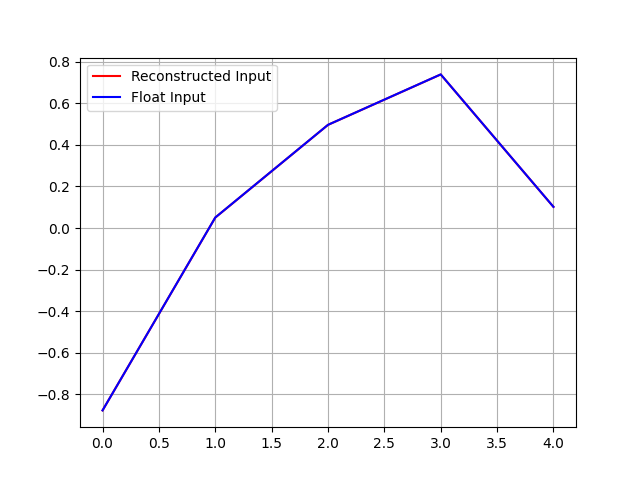
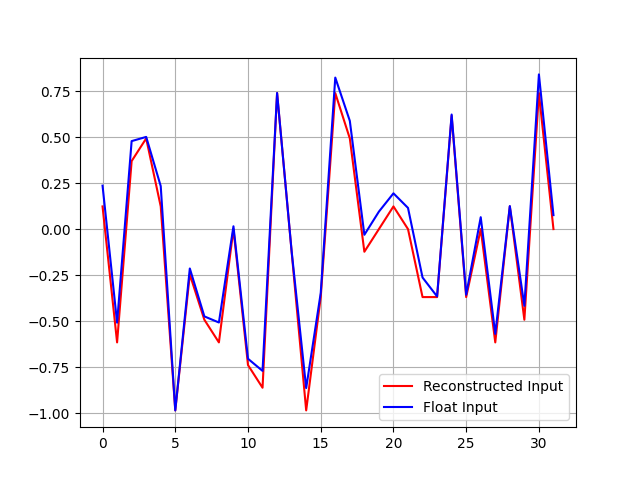
modified:   python/VMM_sim.py 	modified:   python/multi_xb_VMM.py 	modified:   results/Input_reconstruction.png 	new file:   results/Quantized_output_comparison.png 	modified:   results/VMM_with_multi_XB.png

diff --git a/python/multi_xb_VMM.py b/python/multi_xb_VMM.py
@@ -5,7 +5,7 @@ from VMM_sim import Quantize_VMM, Deduct_VM
 import matplotlib.pyplot as plt
 
 
-def Quantize_input(input_vectors, v_range, num_intervals=16):
+def Quantize_input(input_vectors, v_range, interval_width, num_intervals=16):
     '''
     Parameters:
         voltages: input voltage vectors (Nxl), where N is the number of vectors and l is the length of each vector
@@ -14,20 +14,18 @@ def Quantize_input(input_vectors, v_range, num_intervals=16):
     Returns:
         quantized_lvs: quantized input voltage vectors (Nxl, [v_range[0], v_range[1]]), where N is the number of vectors and l is the length of each vector
         scaled_indices: the indices of the quantized input voltage vectors (Nxl)
-        interval_widths: the width of each interval in the quantization
     '''
     # Determine codes and prepare for broadcasting
-    codes = np.linspace(v_range[0], v_range[1], num_intervals, endpoint=False, dtype=int)
+    codes = np.linspace(v_range[0], v_range[1], num_intervals, endpoint=True, dtype=int)
     
-    # Compute min and max for each vector
-    min_vals = np.min(input_vectors)
-    max_vals = np.max(input_vectors)
-    
-    # Calculate interval widths for each vector
-    interval_widths = (max_vals - min_vals) / num_intervals
+    # Compute float voltage range
+    float_v_range = interval_width * num_intervals
+    # Compute a and b
+    a = (v_range[1] - v_range[0]) / float_v_range
+    b = v_range[0]
     
     # Normalize vectors to range [0, 1] within their respective min-max range
-    normalized_vectors = (input_vectors - min_vals) / (max_vals - min_vals)
+    normalized_vectors = input_vectors / float_v_range
     
     # Scale normalized vectors to code indices and clip to valid range
     scaled_indices = np.floor(normalized_vectors * num_intervals).astype(int)
@@ -36,7 +34,7 @@ def Quantize_input(input_vectors, v_range, num_intervals=16):
     # Map indices to quantized voltage values
     quantized_lvs = codes[scaled_indices]
     
-    return quantized_lvs, scaled_indices, interval_widths
+    return quantized_lvs, scaled_indices, a, b
 
 
 '''
@@ -91,7 +89,7 @@ def VMM_with_multi_XB(voltages, conductances, v_range, g_range, num_xbars, num_s
     codes_g = np.arange(g_range[0], g_range[1] + 1, dtype=int)
     qtz_conductances = codes_g[
         np.clip(
-            np.floor((conductances - min_g) / (max_g - min_g) * len(codes_g)).astype(int), 
+            np.floor((conductances - min_g) / (max_g - min_g) * (len(codes_g) - 1)).astype(int), 
             0, len(codes_g) - 1)]
     
     # Compute c, d
@@ -107,19 +105,22 @@ def VMM_with_multi_XB(voltages, conductances, v_range, g_range, num_xbars, num_s
     qtz_output_deduct = np.zeros((num_xbars + 1, voltages.shape[0], conductances.shape[1]))
     max_out = np.zeros((num_xbars + 1, 1))
     min_out = np.zeros((num_xbars + 1, 1))
-    a, b = np.zeros((num_xbars, 1)), np.zeros((num_xbars, 1))
+    a, b = np.zeros((num_xbars + 1, 1)), np.zeros((num_xbars + 1, 1))
+    rescale_factor, rescale_bias = np.zeros((num_xbars + 1, 1)), np.zeros((num_xbars + 1, 1))
+    float_output = np.zeros((num_xbars + 1, voltages.shape[0], conductances.shape[1]))
     
     voltages = voltages - total_min_v
-    for i in range(num_xbars):
-        # Compute a, b
-        max_v = np.max(voltages)
-        min_v = np.min(voltages)
-        a[i, :] = (v_range[1] - v_range[0]) / (max_v - min_v)
-        b[i, :] = v_range[0] - a[i, :] * min_v
+    for i in range(num_xbars): 
+        assert (np.min(voltages) >= 0), "The input voltage should be non-negative"
+        # Compute the interval width for the current crossbar
+        input_interval_widths[i, :] = (np.max(voltages) - np.min(voltages)) / num_steps if i == 0 else input_interval_widths[i - 1, :] / num_steps
         
         (qtz_input[i, :, :], 
          qtz_input_index[i, :, :], 
-         input_interval_widths[i, :]) = Quantize_input(voltages, v_range, num_steps)
+         a[i, :], b[i, :]) = Quantize_input(voltages, v_range, input_interval_widths[i, :], num_steps)
+        
+        # Compute the float output for the current crossbar
+        float_output[i, :, :] = np.matmul(qtz_input_index[i, :, :] * input_interval_widths[i, :], conductances)
         
         # Compute the output vector and quantize it to the range [0, 255]
         out = np.matmul(qtz_input[i, :, :], qtz_conductances)
@@ -130,11 +131,12 @@ def VMM_with_multi_XB(voltages, conductances, v_range, g_range, num_xbars, num_s
             np.clip(
                 np.floor((out - min_out[i, :]) / (max_out[i, :] - min_out[i, :]) * 255).astype(int), 
                 0, 255)]
-        qtz_output_deduct[i, :, :] = Deduct_VM(qtz_output[i, :, :], 
-                                               a[i, :], b[i, :], c, d, 
-                                               max_out[i, :], min_out[i, :], 
-                                               qtz_input_index[i, :, :] * input_interval_widths[i, :] + min_v, 
-                                               conductances)
+        (qtz_output_deduct[i, :, :], 
+         rescale_factor[i, :], rescale_bias[i, :]) = Deduct_VM(qtz_output[i, :, :], 
+                                                               a[i, :], b[i, :], c, d, 
+                                                               max_out[i, :], min_out[i, :], 
+                                                               qtz_input_index[i, :, :] * input_interval_widths[i, :], 
+                                                               conductances)
         
         # Update the voltages for the next crossbar
         voltages = voltages - input_interval_widths[i, :] * qtz_input_index[i, :, :]
@@ -144,6 +146,7 @@ def VMM_with_multi_XB(voltages, conductances, v_range, g_range, num_xbars, num_s
     total_min_v_qtz_vec = np.ones((1, voltages.shape[1])) * v_range[0]
     total_min_v_vec = np.ones((1, voltages.shape[1])) * total_min_v
     out = np.matmul(total_min_v_qtz_vec, qtz_conductances)
+    float_output[i, :, :] = np.matmul(total_min_v_vec, conductances)
     min_out[i, :], max_out[i, :] = np.min(out), np.max(out)
     
     codes_out = np.arange(0, 256, dtype=int)
@@ -151,15 +154,17 @@ def VMM_with_multi_XB(voltages, conductances, v_range, g_range, num_xbars, num_s
         np.clip(
             np.floor((out - min_out[i, :]) / (max_out[i, :] - min_out[i, :]) * 255).astype(int), 
             0, 255)]
-    qtz_output_deduct[i, :, :] = Deduct_VM(qtz_output[i, :, :], 
-                                           a[0, :], b[0, :], c, d, 
-                                           max_out[i, :], min_out[i, :], 
-                                           total_min_v_vec, 
-                                           conductances)
+    a[i, :], b[i, :] = 1, v_range[0] - total_min_v
+    (qtz_output_deduct[i, :, :],
+     rescale_factor[i, :], rescale_bias[i, :]) = Deduct_VM(qtz_output[i, :, :], 
+                                                           a[i, :], b[i, :], c, d, 
+                                                           max_out[i, :], min_out[i, :], 
+                                                           total_min_v_qtz_vec, 
+                                                           conductances)
     
     return qtz_input, qtz_input_index, input_interval_widths, \
-           qtz_conductances, total_min_v,\
-           qtz_output, qtz_output_deduct
+           qtz_conductances, total_min_v, a, c, rescale_factor, rescale_bias, \
+           qtz_output, qtz_output_deduct, float_output
 
 '''
 This function is to reconstruct the input voltage vectors and the output results from the quantized input and output
@@ -167,13 +172,14 @@ recover_input = total_min_v + sum(qtz_input_index[i, :, :] * input_interval_widt
 recover_output = sum(qtz_output[i, :, :] * input_interval_widths[i, :]) + total_min_v_output
     total_min_v_output is the last array in the qtz_output array
 '''
-def Reconstruct_output(qtz_input, qtz_input_index, input_interval_widths, total_min_v, qtz_output):
+def Reconstruct_output(qtz_input, qtz_input_index, input_interval_widths, 
+                       total_min_v, qtz_output, a, c, rescale_factor, rescale_bias):
     '''
     Parameters:
         qtz_input: quantized input voltage vectors (num_xbars x N x l, [v_range[0], v_range[1]]), where N is the number of vectors and l is the length of each vector
         qtz_input_index: the indices of the quantized input voltage vectors (Nxl)
         input_interval_widths: the width of each interval in the quantization (num_xbars x 1)
-        qtz_output: quantized output vector (Nxm), where N is the number of vectors and m is the output vector length
+        qtz_output: quantized output vector (Nxm), where N is the number of vectors and m is the output vector length`
     Returns:
         recover_input: the reconstructed input voltage vectors (Nxl)
         recover_output: the reconstructed output vector (Nxm)
@@ -183,30 +189,78 @@ def Reconstruct_output(qtz_input, qtz_input_index, input_interval_widths, total_
     
     recover_output = np.zeros(qtz_output.shape[1:])
     for i in range(num_xbars):
-        recover_output += qtz_output[i, :, :] * input_interval_widths[i]
-    recover_output += qtz_output[-1, :, :]
+        recover_output += (qtz_output[i, :, :] * rescale_factor[i, :] + rescale_bias[i, :]) / (a[i] * c)
+    # recover_output += (qtz_output[-1, :, :] * rescale_factor[-1, :] + rescale_bias[-1, :]) / c
     
     return recover_input, recover_output
+
+
+def Compare_qtz_with_flout_out(qtz_output, float_output, c):
+    '''
+    Parameters:
+        qtz_output: quantized output vector (Nxm), where N is the number of vectors and m is the output vector length
+        float_output: the float output vector (Nxm)
+        v_range: voltage quantization range (2x1), where the first element is the minimum and the second element is the maximum
+    Returns:
+        qtz_output: quantized output vector (Nxm), where N is the number of vectors and m is the output vector length
+    '''
+    num_xbars = qtz_output.shape[0]
+    qtz_outs = np.zeros((num_xbars, qtz_output.shape[1], qtz_output.shape[2]))
+    for i in range(num_xbars):
+        current_qtz_output = qtz_output[i, :, :] / c
+        current_float_output = float_output[i, :, :]
+        # Compute the qtz output of the current float output
+        min_out, max_out = np.min(current_float_output), np.max(current_float_output)
+        codes_out = np.arange(0, 256, dtype=int)
+        qtz_out = codes_out[
+            np.clip(
+                np.floor((current_float_output - min_out) / (max_out - min_out) * 255).astype(int), 
+                0, 255)]
+        # Compare the "current_qtz_output" with "qtz_out"
+        # assert np.allclose(current_qtz_output, qtz_out), "The quantized output is not correct"
+        qtz_outs[i, :, :] = qtz_out
+        # Plot the current_float_output and current_qtz_output and qtz_out in 3 subplots
+        fig = plt.figure()
+        ax1 = fig.add_subplot(311)
+        ax1.plot(np.arange(current_float_output.shape[1]), current_float_output[0], 'r', label='Float Output')
+        plt.legend()
+        plt.grid(True)
+        
+        ax2 = fig.add_subplot(312)
+        ax2.plot(np.arange(current_qtz_output.shape[1]), current_qtz_output[0], 'b', label='Quantized Output')
+        plt.legend()
+        plt.grid(True)
+        
+        ax3 = fig.add_subplot(313)
+        ax3.plot(np.arange(qtz_out.shape[1]), qtz_out[0], 'g', label='Quantized Output from float')
+        plt.legend()
+        plt.grid(True)
+        plt.savefig('results/Quantized_output_comparison.png')
+        
+    return qtz_outs
 
 
 if __name__ == '__main__':
     # Example usage
     # Input, random generate voltages in a given range
-    voltages = np.random.uniform(-1, 1, (5, 5))
-    conductances = np.random.uniform(-1, 1, (5, 3))     # np.array([[0.1, 0.2, 0.3], [0.4, 0.5, 0.6], [0.7, 0.8, 0.9], [1.0, 1.1, 1.2], [1.3, 1.4, 1.5]])
-    float_output = np.matmul(voltages, conductances)
+    voltages = np.random.uniform(-1, 1, (2, 32))
+    conductances = np.random.uniform(-1, 1, (32, 5))     # np.array([[0.1, 0.2, 0.3], [0.4, 0.5, 0.6], [0.7, 0.8, 0.9], [1.0, 1.1, 1.2], [1.3, 1.4, 1.5]])
+    total_float_output = np.matmul(voltages, conductances)
     
     v_range = np.array([50, 240])
-    g_range = np.array([50, 230])
-    num_xbars = 3
+    g_range = np.array([50, 240])
+    num_xbars = 2
     num_steps = 16
     
     # VMM with multiple crossbars
     (qtz_input, qtz_input_index, input_interval_widths, \
-     qtz_conductances, total_min_v,\
-     qtz_output, qtz_output_deduct) = VMM_with_multi_XB(voltages, conductances, v_range, g_range, num_xbars, num_steps)
+     qtz_conductances, total_min_v, a, c, rescale_factor, rescale_bias,\
+     qtz_output, qtz_output_deduct, float_outputs) = VMM_with_multi_XB(voltages, conductances, v_range, g_range, num_xbars, num_steps)
     
-    recover_input, recover_output = Reconstruct_output(qtz_input, qtz_input_index, input_interval_widths, total_min_v, qtz_output)
+    true_qtz_out = Compare_qtz_with_flout_out(qtz_output_deduct, float_outputs, c)
+    
+    recover_input, recover_output = Reconstruct_output(qtz_input, qtz_input_index, input_interval_widths, 
+                                                       total_min_v, qtz_output_deduct, a, c, rescale_factor, rescale_bias)
     
     # Plot float VMM output and reconstructed output in different subplots
     row_to_plot = 0
@@ -218,7 +272,7 @@ if __name__ == '__main__':
     plt.grid(True)
     
     ax2 = fig.add_subplot(212)
-    ax2.plot(np.arange(float_output.shape[1]), float_output[row_to_plot], 'b', label='Float Output')
+    ax2.plot(np.arange(total_float_output.shape[1]), total_float_output[row_to_plot], 'b', label='Float Output')
     #save the figure
     plt.legend()
     plt.grid(True)

diff --git a/python/VMM_sim.py b/python/VMM_sim.py
@@ -106,8 +106,11 @@ def Deduct_VM(out, a, b, c, d, max_range, min_range, V, M):
     min_out = np.min(out)
     max_out = np.max(out)
     out = np.round((out - min_out) / (max_out - min_out) * 255)
+    # Calculate rescale factor and bias
+    rescale_factor = (max_out - min_out) / 255
+    rescale_bias = min_out
 
-    return out
+    return out, rescale_factor, rescale_bias
 
 
 '''
